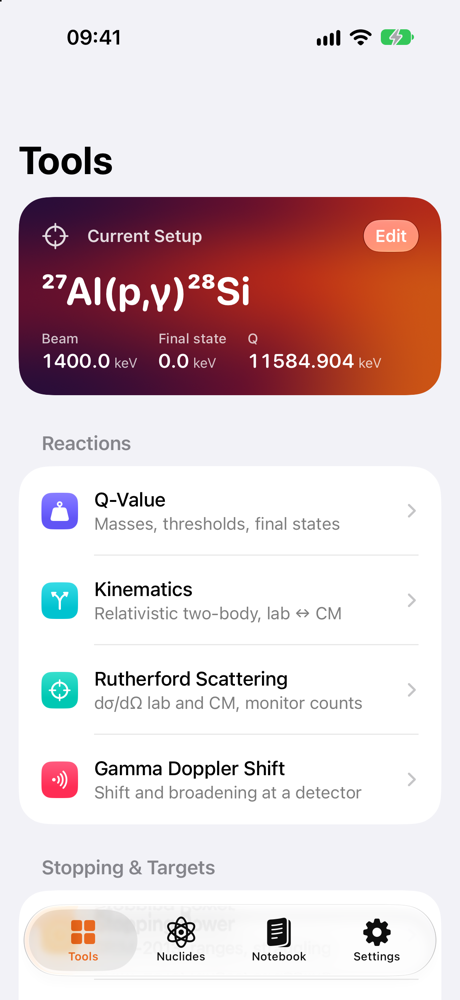
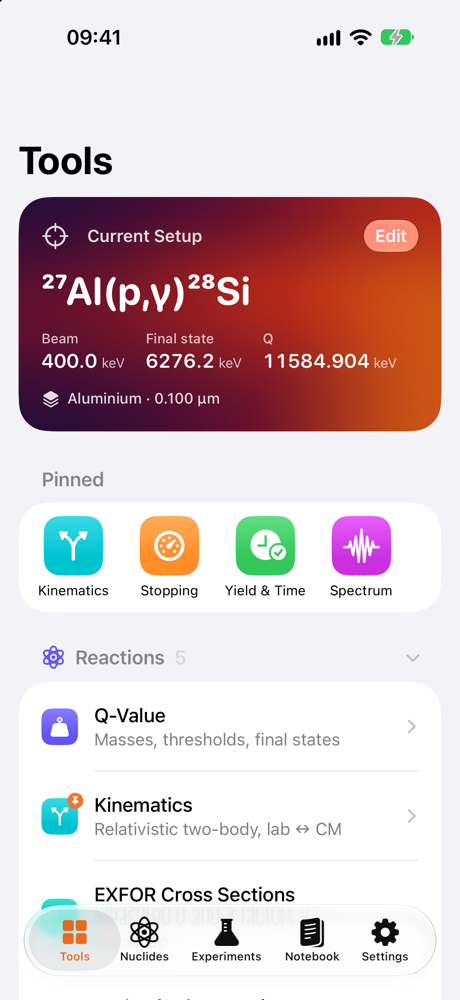
Document setup level picker, γ cascade, escape peaks, particle mode and Tools home
Refresh the README features, the experiment-builder section and credits (NIST XCOM),
bump the tests badge to 96, and add screenshots of the setup sheet, particle and γ
spectra and the new Tools home. Extend docs/experiment-builder.md with the Tools home
(pins, collapsible categories, hidden tools), the residual-level picker and the
cascade model.

diff --git a/README.md b/README.md
@@ -3,7 +3,7 @@
 ![Platform](https://img.shields.io/badge/platform-iOS%20%7C%20iPadOS%2026-blue)
 ![Swift](https://img.shields.io/badge/Swift-6-orange)
 ![SwiftUI](https://img.shields.io/badge/UI-SwiftUI%20%2B%20Liquid%20Glass-purple)
-![Tests](https://img.shields.io/badge/tests-90%20passing-brightgreen)
+![Tests](https://img.shields.io/badge/tests-96%20passing-brightgreen)
 ![License](https://img.shields.io/badge/license-MIT-lightgrey)
 
 Gamow is a native iPhone and iPad app for the numbers an experimental nuclear physicist needs at the
@@ -13,7 +13,7 @@ and nuclear data, including measured cross sections from EXFOR. It works offline
 calculations, and has no account, tracking or ads.
 
 <p align="center">
-  <img src="docs/screenshots/tools.png" width="200" alt="Tools home with the current reaction setup">
+  <img src="docs/screenshots/tools.png" width="200" alt="Tools home with the current setup, pinned tools and collapsible categories">
   <img src="docs/screenshots/kinematics.png" width="200" alt="Relativistic kinematics with an interactive chart">
   <img src="docs/screenshots/yield.png" width="200" alt="Yield and beam-time estimator">
   <img src="docs/screenshots/nuclide.png" width="200" alt="Nuclide page with ENSDF levels">
@@ -21,8 +21,14 @@ calculations, and has no account, tracking or ads.
 
 ## Features
 
-One reaction setup (for example `27Al(p,g)28Si` at 1400 keV) is shared by all tools, so changing the beam energy or
-the target updates every screen.
+One reaction setup (for example `27Al(p,g)28Si` at 1400 keV) is shared by all tools, so changing the beam energy,
+the residual level or the target updates every screen.
+
+The **Tools** home shows the current setup, a **Pinned** row of favourite tools and the rest grouped in collapsible
+categories (Reactions, Stopping & targets, Nuclear astrophysics, Run planning, Detectors & sources, Reference).
+Pin or unpin a tool by swiping its row or from its context menu; long-press a pinned tile to reorder it. Tools that
+do not apply to the setup are hidden from the list (Gamma Doppler when the ejectile is a particle and the residual
+is left in its ground state) but stay reachable through search.
 
 | Area | Tools |
 |---|---|
@@ -30,6 +36,7 @@ the target updates every screen.
 | **Stopping & targets** | SRIM-2013 stopping powers (Swift port of LunaSRIM), ranges and straggling · any composition from a formula (`Ta2N5`, `Ca(OH)2`, `TiD2`, `Ta2[17O]5`) or the SRIM compound library, gases from pressure and temperature · layer stacks with energy loss, straggling and mean energy in the target |
 | **Nuclear astrophysics** | Gamow peak and window vs T₉ · S factor ↔ σ with electron screening · resonance strength ↔ thick-target yield · Nₐ⟨σv⟩ from a polynomial or tabulated S(E) plus narrow resonances (CSV import/export) · Coulomb penetrability, shift factor, Wigner limit, θ² |
 | **Run planning** | Yield, count rate and beam time for a target statistical uncertainty, with background and the Currie detection limit · beam current ↔ particles/s, charge state, power on target, integrated charge |
+| **Detector spectrum** | Expected spectrum for the current setup · charged-particle mode: ejectile groups and beam elastically scattered on the target elements at the detector angle, through absorber foils (SRIM stopping, straggling, kinematic spread) · γ mode: primary capture γ and the residual-level cascade from ENSDF branching, custom and source lines, Gaussian photopeaks, Compton continuum, single/double escape peaks scaled with the NIST XCOM pair-production fraction, NIST foil attenuation · zoom, cursors, ROI sums, CSV export |
 | **Detectors & sources** | HPGe/scintillator resolution model · weighted efficiency-curve fit to your calibration points · calibration sources: activity today with uncertainty, γ lines with expected counts, air-kerma rate · decay calculator (activity, atoms, mass, time to a fraction) |
 | **Reference** | CODATA 2018 constants · unit converter (energy, T₉ ↔ kT, barns, lengths, areal density, activity, time, charge) · formula sheet |
 | **Nuclides** | AME2020 masses and separation energies · NUBASE2020 half-lives, Jπ, decay modes, abundances, isomers · ENSDF levels and γ rays from the IAEA LiveChart, cached for offline use |
@@ -52,14 +59,28 @@ expanded/focused views too. Calculator search is available on Tools.
 The [calculation audit](docs/calculation-audit-2026-11-11.md) documents corrected target/yield behavior,
 independent checks and validation limits.
 
-## Custom experiment builder
+## Building an experiment
 
-Use **Tools → Build your experiment** to construct an arbitrary two-body reaction, edit compound
-materials and beam layers, or open the gamma-spectrum tool. Add custom reaction/contaminant lines,
-choose HPGe/BGO/NaI resolution, and insert compound foils in front of the detector. The spectrum
-combines Gaussian photopeaks and a simplified Compton continuum with NIST foil attenuation;
-line counts and continuum/peak ratio are experimental inputs. Export the expected spectrum as CSV.
-See [the experiment-builder guide](docs/experiment-builder.md) for workflow, assumptions and validation.
+**Tools → Current Setup → Edit** holds everything the tools share: the reaction (builder fields or notation such as
+`10B(a,p)13C`), beam energy, the residual excitation — typed, or picked from the residual's ENSDF levels below the
+available energy — and the target material, thickness, tilt and isotope abundance. The sheet warns when the
+material does not contain the reaction's target element.
+
+**Detector Spectrum** follows the exit channel. With a charged ejectile it shows the particle groups at a silicon
+detector: the ejectile and the beam elastically scattered on each target element, slowed by absorber foils, with
+particles that stop in a foil flagged. With a γ ray, or a residual left in an excited state, it lists the reaction's
+own γ rays — the primary capture γ and the cascade of the residual level, following the ENSDF branching ratios — and
+builds the HPGe or scintillator response with photopeaks, Compton continuum and single/double escape peaks. Custom
+and contaminant lines, calibration-source templates, foils in front of the detector and a flat background can be
+added; the spectrum exports as CSV. See [the experiment-builder guide](docs/experiment-builder.md) for the
+workflow, the model's assumptions and its validation.
+
+<p align="center">
+  <img src="docs/screenshots/setup.png" width="200" alt="Setup sheet with the residual-level picker open">
+  <img src="docs/screenshots/spectrum-particles.png" width="200" alt="Particle spectrum for 10B(α,p)13C behind an absorber foil">
+  <img src="docs/screenshots/spectrum-cascade.png" width="200" alt="γ rays of 27Al(p,γ)28Si from the ENSDF cascade">
+  <img src="docs/screenshots/spectrum-gamma.png" width="200" alt="γ spectrum with photopeaks, Compton continuum and escape peaks">
+</p>
 
 ## Install on your iPhone
 
@@ -85,9 +106,9 @@ TestFlight and the App Store.
 
 | Path | Contents |
 |---|---|
-| `Packages/NucToolkit/Sources/NucPhysKit` | Physics only, no UI: masses, reactions, kinematics, `Stopping/` (SRIM-2013), `Astro/` (Coulomb functions, Gamow window, rates), `NuclearData/` (NUBASE, decay, LiveChart client, EXFOR index, table parser and client), `RunPlanning/` (beam, statistics, detectors) |
+| `Packages/NucToolkit/Sources/NucPhysKit` | Physics only, no UI: masses, reactions, kinematics, `Stopping/` (SRIM-2013), `Astro/` (Coulomb functions, Gamow window, rates), `NuclearData/` (NUBASE, decay, LiveChart client, γ cascades, EXFOR index, table parser and client), `RunPlanning/` (beam, statistics, detectors, γ and particle spectra) |
 | `Packages/NucToolkit/Sources/ToolkitUI` | All SwiftUI screens |
-| `Packages/NucToolkit/Tests/NucPhysKitTests` | Swift Testing suite: Q values against AME2020, kinematics conservation, 24 SRIM SR-module reference cases, Coulomb functions against mpmath, Gamow peak, rate formulae, NUBASE, decay, efficiency fit, EXFOR index and tables |
+| `Packages/NucToolkit/Tests/NucPhysKitTests` | Swift Testing suite: Q values against AME2020, kinematics conservation, 24 SRIM SR-module reference cases, Coulomb functions against mpmath, Gamow peak, rate formulae, NUBASE, decay, efficiency fit, EXFOR index and tables, γ cascades, escape peaks, photon attenuation, particle spectra |
 | `App/` | `@main` app target and the App Intents (Shortcuts) |
 | `Widgets/` | Widget extension |
 | `Data/` | Source tables: AME2020, NUBASE2020, SRIM-2013 data, raw IAEA LiveChart decay data |
@@ -173,6 +194,7 @@ publication against the primary references.
 | Stopping powers | SRIM-2013, J. F. Ziegler, M. D. Ziegler, J. P. Biersack, NIM B 268, 1818 (2010) | **Non-commercial use only** |
 | Stopping code | [LunaSRIM](https://github.com/skowrons94/LunaSRIM) by J. Skowronski, ported to Swift | MIT (`Data/SRIM2013/LunaSRIM-LICENSE`) |
 | Photon foil μ/ρ | J. H. Hubbell and S. M. Seltzer, NISTIR 5632, elemental tables Z=1–92 | Public domain |
+| Pair-production fraction (escape peaks) | M. J. Berger et al., [NIST XCOM](https://physics.nist.gov/PhysRefData/Xcom/html/xcom1.html) | Public domain |
 | Air μ_en/ρ | J. H. Hubbell and S. M. Seltzer, NISTIR 5632 | Public domain |
 | Constants | CODATA 2018 | Public domain |
 

diff --git a/docs/experiment-builder.md b/docs/experiment-builder.md
@@ -20,14 +20,25 @@ and source certificates are not part of the shared snapshot: save calculator out
 
 The spectrum plot supports channel inspection, zoom in/out around the cursor, left/right pan,
 explicit energy limits, a reset button, expanded presentation, component visibility and log counts.
-The ROI panel sums predicted photopeak, Compton, background and total counts over chosen limits.
+The ROI panel sums predicted photopeak, Compton, escape, background and total counts over chosen limits.
 Partial boundary channels are weighted by their overlap; this is not measured-spectrum peak fitting.
 Log plots use a display floor of 0.01 counts, without modifying readouts, ROI sums or exported values.
 
 Overview plots retain channel extrema within energy buckets to keep narrow peaks visible with fewer
 drawn points. Zooming reveals individual channels. Analysis and CSV export always use all channels.
-Kinematics and stopping-power plots also have expanded views and focused ranges. Use the search box
-on Tools to find a calculator by name or description.
+Kinematics and stopping-power plots also have expanded views and focused ranges.
+
+## Tools home
+
+The Tools tab opens on the current setup, then a **Pinned** row (Kinematics, Stopping, Yield & Time and
+Spectrum by default) and the remaining tools in collapsible categories. Swipe a row to the right, or
+long-press it, to pin or unpin the tool; long-press a pinned tile to move it left or right or unpin it.
+Pins, their order and which categories are expanded are kept between launches. The search box lists
+every matching tool by name or description, regardless of pins and collapsed categories.
+
+A tool that cannot say anything about the current setup is left out of the list: Gamma Doppler is
+hidden when the ejectile is a particle and the residual Eₓ is 0, since no γ ray is emitted. Search
+still finds it.
 
 ## Isotopes and tilted targets
 
@@ -50,6 +61,10 @@ beam energy and residual Eₓ, and the target — material (formula, compound li
 tilt and isotope abundance. The sheet warns when the material does not contain the reaction's target
 element. Backings and covers stay in the **Energy Loss** tool.
 
+The list button next to **Residual Eₓ** offers the residual's ENSDF levels (energy and Jπ, up to 40)
+that the exit channel can reach, plus the ground state. The level scheme comes from the offline
+cache, or from the IAEA LiveChart when online data are allowed in Settings; without it, type Eₓ.
+
 **Detector Spectrum** adapts to the exit channel:
 
 - **Particles** (default for a charged ejectile): the ejectile and the beam elastically scattered by each
@@ -57,12 +72,19 @@ element. Backings and covers stay in the **Energy Loss** tool.
   two-body kinematics; absorber foils slow them with SRIM stopping and straggling, and a particle that stops
   in a foil is flagged. Peak widths add the detector resolution, foil straggling and the kinematic spread over
   the detector opening. Peaks are drawn with equal areas; energy loss in the target is not included.
-- **γ rays** (default for capture and neutron channels): offers the reaction's own lines — the primary
-  capture γ and the residual level → ground state — plus custom lines and calibration-source templates.
+- **γ rays** (default for capture and neutron channels): offers the reaction's own lines, plus custom
+  lines and calibration-source templates. The reaction's lines are the primary capture γ (E_cm + Q − Eₓ)
+  and the de-excitation cascade of the residual level. The cascade starts at the ENSDF level nearest Eₓ
+  (within max(2 keV, 0.2 %)) and follows each level's γ branching ratios down to the ground state, so
+  each line carries its γ yield per reaction; internal conversion is neglected. The footer reports the
+  fraction of the cascade that reaches a level without γ data. When no level scheme is loaded, or Eₓ
+  is not an ENSDF level, a single recoil-corrected transition Eₓ → 0 is assumed and the footer says so.
+  Line counts are reactions × γ per reaction, times the efficiency curve when it is applied.
   A channel with no γ ray (e.g. (p,α) to the ground state) says so instead of showing a placeholder.
 
 Gamma Doppler and Yield & Beam Time follow the same rule: with a charged ejectile and Eₓ = 0 the yield
-counts the particle itself (efficiency = solid-angle fraction) and the Doppler tool notes that no γ is emitted.
+counts the particle itself (efficiency = solid-angle fraction), and the Doppler tool is hidden from the
+Tools list (see *Tools home*).
 
 ## γ response model
 
@@ -105,4 +127,7 @@ document the underlying formulas; this implementation does not use Geant4 transp
 
 Tests cover NIST reference values and absorption edges, all 92 bundled elements, compound mass
 fractions, foil angle/path length, Gaussian area/centroid/width, additive contaminant lines,
-background, Compton edge and continuum area, cropped windows, invalid inputs and Codable round trips.
+background, Compton edge and continuum area, cropped windows, invalid inputs and Codable round trips;
+cascade branching on a toy level scheme; the pair-production fraction, escape-ratio scaling, escape
+peak positions and decoding of setups saved before escape peaks existed; and particle groups, elastic
+lines and foil stopping in particle mode.
